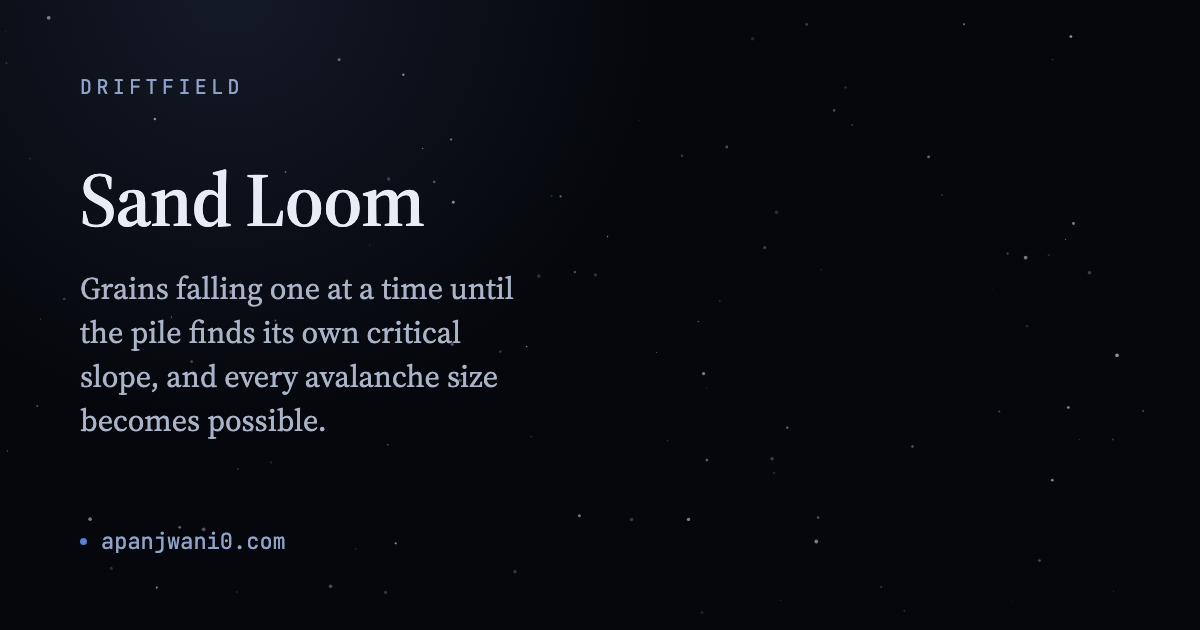
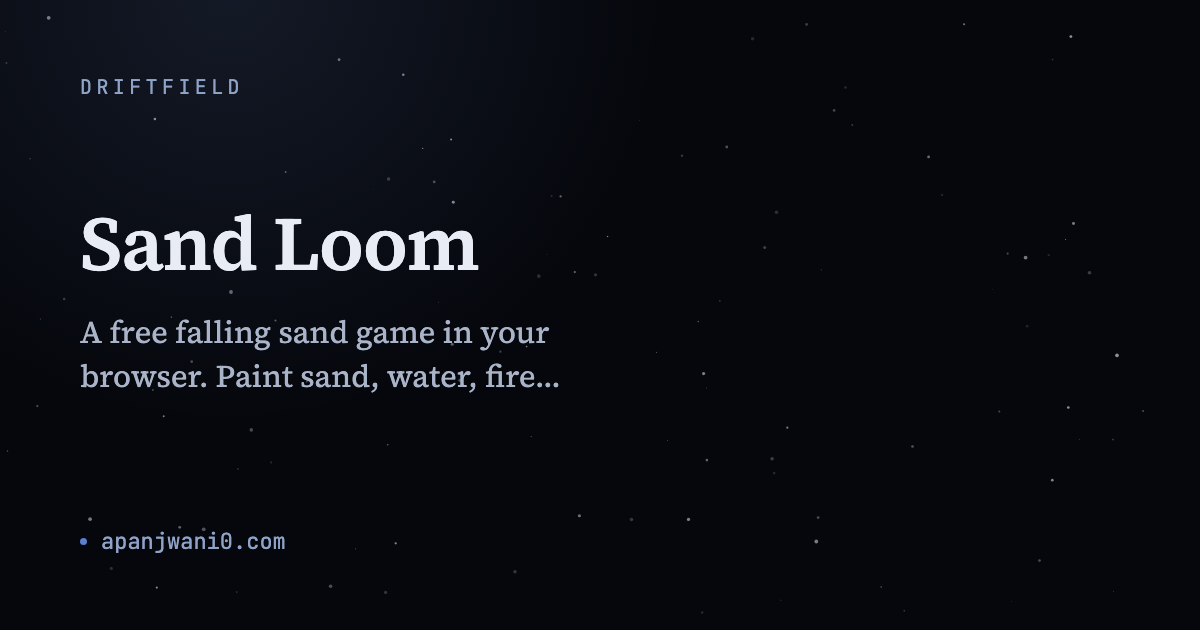
Add plain how-tos and global search titles to seven tool and game pages

Changed region(s): [[0.0617, 0.2714, 0.4625, 0.6937]]

diff --git a/src/config/tools.ts b/src/config/tools.ts
@@ -23,20 +23,46 @@ export const tools: Tool[] = [
     title: 'Webhook Inspector',
     description: 'Get a unique URL, send any webhook to it, and inspect the requests live.',
     status: 'live',
-    seoTitle: 'Webhook Tester & Inspector — Webhook Inspector',
-    metaDescription: 'Free webhook tester: get an instant URL, watch requests arrive with headers and body, then verify the Stripe, GitHub or Slack signature against your secret.',
+    seoTitle: 'Free Webhook Tester Online — Webhook Inspector',
+    metaDescription: 'Free online webhook tester: get a URL, send a test webhook to it and watch the headers and body arrive live. Check Stripe, GitHub or Slack signatures too.',
     keywords: 'webhook tester, webhook inspector, test webhook, webhook debugger, request bin, requestbin, http request inspector, capture webhook, inspect webhook, webhook url, receive webhook, webhook.site alternative, test http request, mock http endpoint, webhook testing tool, online webhook, debug webhook, http echo, request catcher, verify webhook signature, webhook signature checker, stripe signature verification, x-hub-signature-256, slack signing secret, shopify hmac, webhook hmac, signature mismatch, raw body hmac',
     intro: 'A live webhook and HTTP request tester that uses a real server, not just your browser. You get a unique capture URL that is saved on this device so you can reuse and share it; point any webhook sender or HTTP client at it — Stripe, GitHub, Slack, Shopify, Zapier, a cron job, or your own code — and every request it makes appears here within a couple of seconds, complete with the method, query string, every header, and the raw or pretty-printed body. Expand any request to read the full details, copy the body in one click, and clear the log when you are done. The capture URL doubles as a controllable HTTP target for debugging clients: append ?status=500 to make it return that status and exercise your retry logic, ?delay=2000 to simulate a slow upstream (2s is the cap), or ?echo=1 to have it send your request body straight back. Send a sample request with one button to see it work immediately. Paste the signing secret and every captured request is checked against it: Stripe, GitHub, Slack and Shopify are recognised from their headers and verified with the exact payload each one signs, and for any other sender the raw body is HMAC-ed with SHA-256, SHA-1 and SHA-512 and matched against every header, which tells you which header is the signature and how it is encoded. It keeps "correctly signed" and "still inside the replay window" as separate answers, and it never takes the algorithm from a label inside the message. The secret is used in your browser with Web Crypto and is never saved or uploaded. Captured requests live on the server only long enough to inspect — a few hours of inactivity — and are visible only to whoever holds the unguessable URL: there is no account and no public listing. Press R to refresh, C to clear, N for a fresh URL, and P to pause the live feed.',
+    seoContent: `## What is a webhook tester?
+
+A webhook tester gives you a temporary web address that accepts any request and shows you exactly what was sent. Point a service at it to see what its webhook really looks like before you write the code that receives it.
+
+## How to test a webhook
+
+1. Copy the URL at the top of the page. It is made for you and saved on this device.
+2. Paste it into the webhook settings of the service you are testing, or press Send test request.
+3. Watch the request appear in the list, then open it to read the method, headers and body.
+
+## Good to know
+
+Anyone who has the URL can read its requests, so do not share it, and do not send real secrets. Requests are dropped after a few hours of inactivity, and bodies over 64 KB are cut short. To see how your client handles a failure, add ?status=500 to the URL and it will answer with that status.`,
   },
   {
     slug: 'link-peek',
     title: 'Link Peek',
     description: 'Preview how a URL unfurls in Slack, X and iMessage — and lint its Open Graph tags.',
     status: 'live',
-    seoTitle: 'Link Preview Checker — Open Graph & Twitter Card Tester',
-    metaDescription: 'See how a link unfurls in Slack, X and iMessage before you share it. Fetches it the way each bot does and lints missing or wrong Open Graph and Twitter tags.',
+    seoTitle: 'Twitter (X) Link Preview Checker & Tester — Link Peek',
+    metaDescription: 'Twitter link preview checker: paste a URL to see how it looks on X, Slack and iMessage, and find missing or wrong Open Graph and Twitter Card tags.',
     keywords: 'link preview checker, open graph checker, og tag tester, twitter card validator, unfurl preview, social share preview, og:image checker, meta tag preview, slack link preview, imessage link preview, link unfurler, opengraph debugger, social card preview, og debugger, check open graph tags, preview link before sharing, twitter card preview, facebook debugger alternative',
-    intro: 'A link preview checker that fetches with a real server, because a browser cannot: paste any URL and this tool fetches the page server-side — as Slackbot, Twitterbot, facebookexternalhit, a plain browser, or its own UA, since sites really do serve different tags to different bots — follows its redirects with every hop validated, and reads the Open Graph and Twitter-card tags exactly the way each platform reads them. Three mockups then show what your link will look like in Slack, on X, and in iMessage, using the true precedence rules: X reads twitter:* before og:* and renders no card at all without twitter:card, Slack prefers og:* and uses the twitter:card type only to pick the image size, and iMessage shows the og:title over the domain. The og:image itself is fetched once (bounded) and measured, so the preview shows the real file and the tool can compare its actual pixel size against the declared og:image:width and og:image:height — the lie static checkers cannot catch. A lint pass lists everything wrong or missing by name: absent tags, present-but-empty tags, relative or insecure image URLs, titles that will truncate, undeclared dimensions, duplicate tags where only the first one counts, and an unknown twitter:card value. When you have read the findings, copy a corrected, ready-to-paste meta snippet built from what the page already has, with a TODO comment standing in for each gap. Only public URLs are fetched — private and internal addresses are refused, every redirect hop is re-checked, and nothing about the page or your usage is stored. Your last URL and bot choice are remembered on this device.',
+    intro: 'A free link preview checker. Paste a URL to see how it will look when you share it on X (Twitter), Slack and iMessage, and to find missing or wrong Open Graph and Twitter Card tags.',
+    seoContent: `## What is a link preview?
+
+When you paste a link into X (Twitter), Slack or iMessage, the app fetches the page and reads a few meta tags in its head, mainly Open Graph and Twitter Card tags. It uses them to build the title, description and image shown under the link. Link Peek shows you that preview before you share the link.
+
+## How to check a link
+
+1. Paste the full address, starting with https://, into the box. You can also choose which bot to fetch the page as, such as Slackbot or Twitterbot.
+2. Press Preview.
+3. Look at the three previews, then read the list of problems. Copy the corrected meta tags and paste them into your page.
+
+## Good to know
+
+X reads its own twitter: tags first, and shows no card at all if twitter:card is missing. Apps also keep an old preview for a while, so a link you already shared may still look wrong after you fix the tags. Only public web addresses can be checked.`,
   },
   {
     slug: 'dns-sightline',
@@ -93,10 +119,23 @@ export const tools: Tool[] = [
     title: 'List Forge',
     description: 'Convert a column to a comma-separated list — and back again.',
     status: 'live',
-    seoTitle: 'Column to Comma List Converter — List Forge',
-    metaDescription: 'Turn a column into a comma-separated list, CSV row or SQL-ready list, then convert it back. Trim, dedupe, quote and sort in your browser.',
+    seoTitle: 'List to Comma Separated String Converter — List Forge',
+    metaDescription: 'Convert a list to a comma separated string online, or turn a comma separated list back into a column. Add quotes, remove duplicates and sort. No upload.',
     keywords: 'column to comma separated list, comma separator, list to csv, convert column to csv, csv to list, comma separated list generator, delimiter converter, semicolon separated list, pipe separated list, remove duplicates from list, sort list online, add quotes to list, excel column to comma separated',
-    intro: 'A two-pane converter that works in both directions: type or paste a column on the left (one item per line, straight out of a spreadsheet) and the delimited list appears on the right — or paste a delimited list on the right and get the column back. Whichever pane you edit is the source, so nothing is ever rewritten under your cursor. Pick the delimiter (comma, comma + space, semicolon, pipe, space, tab, new line, or your own), wrap each value in double or single quotes, and add a prefix and suffix to every item and to the list as a whole — enough to build an SQL IN clause, a JSON-ish array, or a plain CSV row. Clean the data on the way through: trim items, drop empty lines, collapse extra spaces or strip whitespace entirely, remove duplicates, lowercase, sort A→Z, and reverse. Quoted values are handled properly — a delimiter inside quotes never splits an item, and quotes inside a value are doubled the way CSV expects. A live item and character count sits under the panes; copy either side in one click (or turn on auto-copy), download the list as .csv or .txt, and reset when you are done. Your settings and both panes are remembered in your browser, and everything runs locally with nothing uploaded.',
+    intro: 'Paste a list with one item per line and get a comma separated string. Paste a comma separated string and get a column list back. It all runs in your browser.',
+    seoContent: `## What it does
+
+List Forge turns a column of items, one per line, into a comma separated string, and turns a delimited list back into a column. It is useful for pasting a spreadsheet column into a SQL query, a code array or a CSV row.
+
+## How to convert a list
+
+1. Paste your list into the left box, one item per line. To go the other way, paste the comma separated list into the right box instead.
+2. Open Settings and choose the separator: comma, comma and space, semicolon, pipe, space, tab, new line or your own. You can also wrap each item in quotes, trim spaces, remove duplicates and sort.
+3. Copy the result, or download it as a .csv or .txt file.
+
+## Good to know
+
+The box you type in is the source, and the other box is rebuilt from it. When you turn a list back into a column, a separator inside quotes does not split that item, so "Paris, France" stays as one item. Your lists stay in your browser and are never uploaded.`,
   },
   {
     slug: 'epoch-wizard',
@@ -151,10 +190,23 @@ Systems that keep epoch seconds in a signed 32-bit number run out on 19 January 
     title: 'Hash Smith',
     description: 'Hash text or files with SHA-256/1/384/512 & HMAC, and generate UUIDs.',
     status: 'live',
-    seoTitle: 'SHA Hash, HMAC & UUID Generator — Hash Smith',
-    metaDescription: 'Generate SHA hashes, HMAC signatures and UUIDs from text or files in your browser. Verify checksums locally, without uploads.',
+    seoTitle: 'SHA-256 Hash Generator & UUID Generator — Hash Smith',
+    metaDescription: 'Free SHA-256, SHA-1, SHA-384 and SHA-512 hash generator with HMAC and file checksums, plus a v4 and v7 UUID generator. Runs in your browser, no upload.',
     keywords: 'sha256 hash, sha-256 generator, sha1 hash, sha512 hash, sha384, hash generator, online hash, hmac generator, hmac sha256, checksum calculator, verify checksum, file hash, file checksum, md5 alternative, uuid generator, guid generator, uuid v4, uuid v7, generate uuid, random uuid, base64 hash, crypto subtle',
-    intro: 'A hashing and UUID workbench that runs entirely in your browser on the built-in Web Crypto API, so nothing is ever uploaded. On the Text tab, type or paste anything and get its SHA-1, SHA-256, SHA-384 and SHA-512 digests all at once, live as you type — read each one as hex (lower or UPPERCASE) or Base64, and copy any single digest in one click. Flip to HMAC mode to authenticate the text with a secret key using the same four algorithms, exactly how API requests and webhooks are signed. On the File tab, pick any file to hash it locally with the same algorithms, then paste a published checksum into the verify box: the matching row lights up, so you can confirm a download is intact — the comparison ignores spaces, colons and letter case and checks every algorithm, so you need not know which one was used. On the UUID tab, mint v4 (fully random) or v7 (time-ordered, ideal as a database key) identifiers, or the nil UUID, in bulk up to a hundred at a time, toggling UPPERCASE, hyphens and {braces}, then copy them all. Everything is copy-first, keyboard-friendly — Ctrl/⌘ + Enter copies the current output — and your non-secret inputs and settings are remembered in your browser.',
+    intro: 'Generate a SHA-256 hash (or SHA-1, SHA-384, SHA-512, HMAC) from text or a file, and create UUIDs. It all runs in your browser and nothing is uploaded.',
+    seoContent: `## What it does
+
+Hash Smith makes SHA-1, SHA-256, SHA-384 and SHA-512 hashes of text or a file, signs text with a secret key as an HMAC, and generates UUIDs. A hash is a short fingerprint of your data: the same input always gives the same hash.
+
+## How to use it
+
+1. To hash text, open the Text tab, type or paste, and read the four hashes. Show them as hex or Base64 and copy the one you need.
+2. To check a download, open the File tab, pick the file, and paste the checksum the publisher gave you. The matching row lights up.
+3. For a UUID, open the UUID tab, choose v4 (random) or v7 (time-ordered), pick how many, and press Generate.
+
+## A hash is not a UUID
+
+A SHA-256 hash is 256 bits long and a UUID is 128 bits, and this tool does not turn one into the other. Use the UUID tab to make a new UUID, and the Text tab to hash.`,
   },
   {
     slug: 'cron-whisperer',

diff --git a/src/config/games.ts b/src/config/games.ts
@@ -31,10 +31,10 @@ export const games: Game[] = [
     "description": "A free Texas Hold'em poker trainer. Play seven kinds of spots: single raised pots, three-bet pots, all-in shoves, multiway pots, river bets, and a raise against your own bet. Each one comes with the story of the hand, so you know the position, the stacks and the pot.\n\nYou never see their cards. Their range narrows with the size of their bet, from a third of the pot up to a 2.5× overbet, and your equity against it is counted exactly: every runout and every pair of hands, never sampled. After you answer, every number is named and worked out. The drill grades immediate expected value, not a solved strategy.",
     "enabled": true,
     "interactive": true,
-    "seoTitle": "Free Poker Trainer: Exact Equity, Ranges and Pot Odds",
-    "metaDescription": "Free Hold'em trainer: seven situations, multiway pots and bets from a third of the pot to an overbet, with exact equity and every number explained.",
+    "seoTitle": "Holdem Odds Calculator & Pot Odds Trainer — Poker Trainer",
+    "metaDescription": "Free Hold'em odds calculator and poker equity trainer. Get exact equity and pot odds against a hand or a range, then practise real spots.",
     "keywords": "free poker trainer, free online poker trainer, poker trainer online, texas holdem poker trainer, poker odds calculator free, quant interview poker prep, jane street poker interview, sig poker interview, pot odds calculator, poker equity calculator, poker expected value drill, exact holdem odds, holdem equity, poker math trainer",
-    "intro": "Play a spot without seeing their cards, the way a real table works — then see every number behind the decision, computed by counting every possible runout.",
+    "intro": "A free Hold'em odds calculator and poker equity trainer. Work out your exact equity and pot odds against a hand or a range, or practise a spot and see every number behind the decision.",
     "features": [
       "Seven situations: single raised pots, three-bet pots, all-in shoves, multiway pots, river bets and a raise against your own bet",
       "Opponent ranges that narrow with bet size, from a third of the pot to a 2.5× overbet",
@@ -44,7 +44,7 @@ export const games: Game[] = [
       "Share a spot by link and see your accuracy by situation, kept only in your browser",
       "100% free client-side execution with zero ads or tracking"
     ],
-    "seoContent": ""
+    "seoContent": "## What this is\n\nPoker Trainer does two jobs in your browser. The Run the numbers tab is a Hold'em odds calculator: it gives your exact equity, which is your share of the pot on average, against one hand or a range of hands. The Play a spot tab deals you a real situation and checks your decision.\n\n## How to use the odds calculator\n\n1. Open the Run the numbers tab and pick your two cards, then the board cards if there are any (three, four or five).\n2. Choose whether they hold a specific hand or a range of hands, then pick the hand or the range.\n3. Read your equity. Below it, enter the pot and the amount to call to see the pot odds, and compare the two.\n\n## Good to know\n\nEvery count is exact, never a random sample. If a spot is too big to count in your browser, the page tells you so and asks for more board cards instead of guessing. The trainer grades the immediate expected value of your choice. It is not a solver, so it does not claim to know the perfect strategy."
   },
   {
     "slug": "2048",

diff --git a/src/lib/driftfield.ts b/src/lib/driftfield.ts
@@ -31,6 +31,8 @@ export interface DriftfieldMode {
   seoTitle: string
   description: string
   keywords: string
+  /** Optional short how-to, markdown. Rendered under the engine like a tool's `seoContent`. */
+  seoContent?: string
 }
 
 export const DRIFTFIELD_MODES: DriftfieldMode[] = [
@@ -69,10 +71,23 @@ export const DRIFTFIELD_MODES: DriftfieldMode[] = [
   {
     slug: 'sand-loom',
     title: 'Sand Loom',
-    seoTitle: 'Falling Sand Simulation — Generative Sand Art',
+    seoTitle: 'Falling Sand Game Online — Free Sand Simulator',
     description:
-      'Grains falling one at a time until the pile finds its own critical slope, and every avalanche size becomes possible.',
-    keywords: 'falling sand simulation, sandpile model online, cellular automata sand, self organized criticality demo',
+      'A free falling sand game in your browser. Paint sand, water, fire, lava and more with your mouse and watch simple physics pile, flow and burn.',
+    keywords: 'falling sand game, falling sand simulator, sand simulator, sand physics, falling sand online, cellular automata sand',
+    seoContent: `## What is a falling sand game?
+
+A falling sand game is a small physics sandbox. The screen is a grid of tiny cells, each holding one material, and every material follows a few simple rules. Sand piles up, water flows and finds its level, and fire spreads. There is no goal: you paint and watch what happens.
+
+## How to play
+
+1. Pick a material from the palette: sand, water, stone, wood, plant, fire, oil, lava, acid or salt. The number keys 1 to 9 and 0 pick the first ten.
+2. Click or drag on the canvas to paint it. The Brush slider sets the size, and the Speed and Scale sliders set the pace and the size of the cells.
+3. Press Scene to load a ready-made demo, Pause to stop time, and Clear to start again.
+
+## Things to try
+
+Pour water onto lava and it turns to stone, with steam hissing off. Fire climbs wood and oil. Acid eats through solid material. Sand sinks through water, and oil floats on top of it.`,
   },
   {
     slug: 'starfield-toy',

diff --git a/docs/conventions.md b/docs/conventions.md
@@ -114,7 +114,7 @@ are asserted by `npm run security:smoke`.
 - **SEO support copy is short and human.** `seoContent` renders when set (Aman,
   15 Nov 2026: a tool page may carry a short written how-to). Visitors read it, so
   it is plain words, short and genuinely useful: no keyword stuffing, no
-  generated FAQ filler. Most entries still ship empty; Epoch Wizard has one.
+  generated FAQ filler. Most entries still ship empty. These have one: Epoch Wizard, Link Peek, List Forge, Hash Smith, Webhook Inspector, Poker Trainer and the Sand Loom Driftfield mode (`DRIFTFIELD_MODES`).
 - **StarField** runs behind the plain pages that keep `Base.astro`'s default
   (the 404, blogs, a learning with no figure). Keep it off tool and game detail
   pages (CPU), the card hubs and the home page, whose hero draws its own stars.
